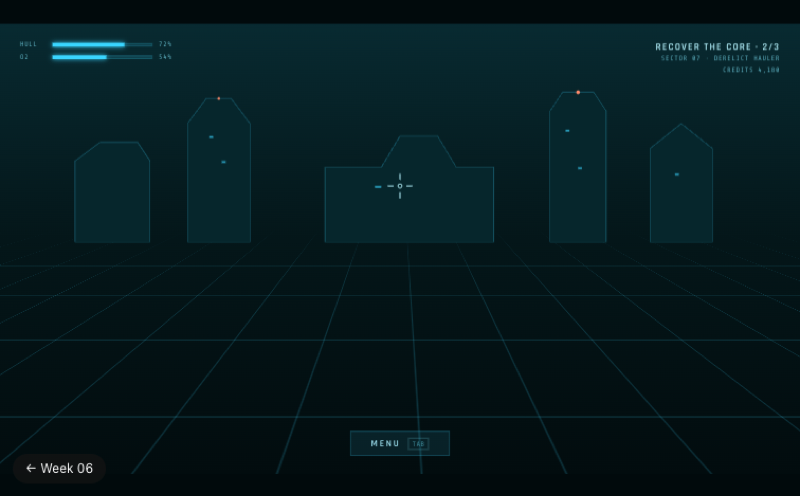
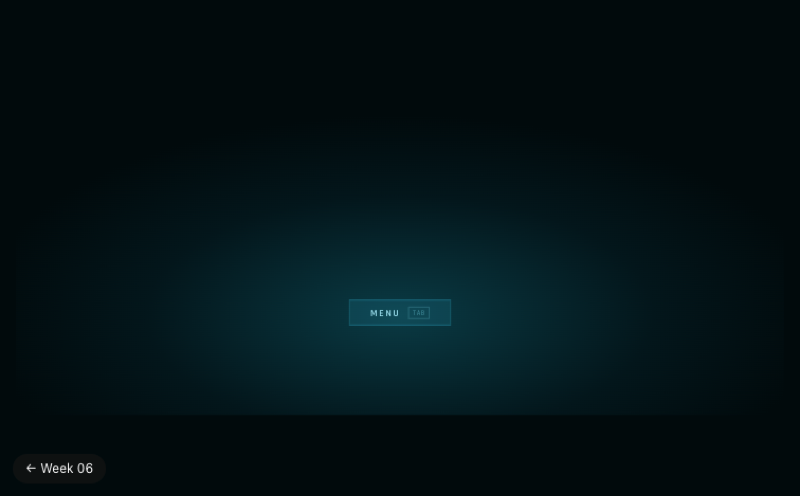
Week 06 Set 1 Vault: game scene removed, the menu alone, framed tight
Claude-Session: https://claude.ai/code/session_01NJxmaEWhDanH1Md96UKkh6

diff --git a/week-06/week-06-vault-menu.html b/week-06/week-06-vault-menu.html
@@ -7,44 +7,26 @@
   <link rel="icon" href="../shared/favicon.svg" type="image/svg+xml" />
   <link rel="stylesheet" href="week-06-vault.css?v=7" />
   <style>
-  /* In use: VAULT, a salvage game played on a derelict station. In play, the menu is shut: only a
-     MENU prompt sits at the foot of the screen. Opened (the prompt, or Tab), the play pauses and a
-     board of glass rises out of a line of light to fill the bottom half of the screen, leaning back
-     like the reference's sheet of glass. Its items are tiles, laid out in sections; they are stacked
-     onto the glass one after another, left to right. Point at a tile and it lifts and fills with
-     light; press it and it lights right through. Gear opens a submenu: a second, smaller board
-     stacked above the first. Esc, Resume or a click on the play takes it all off again, the tiles
-     lifting away right to left before the glass folds back into its line. */
+  /* In use: the field menu of VAULT, a sci-fi salvage game, on its own. Shut, it is a MENU prompt.
+     Opened (the prompt, or Tab), a board of glass rises out of a line of light, leaning back like the
+     reference's sheet of glass. Its items are wide, low boxes in sections, each built in steps like
+     stacked frames. Point at a box and it lifts and fills with light; press it and it lights right
+     through. Gear opens a submenu: a second, smaller board stacked above the first. Esc, Resume or a
+     click outside takes it all down again, right to left, and folds the glass back into its line. */
   *, *::before, *::after { box-sizing: border-box; }
   html, body { margin: 0; }
   body { background: var(--void); color: var(--ink); font: 500 14px/1.3 var(--font); -webkit-font-smoothing: antialiased; }
   button { font: inherit; }
-  :root { --w: 1280px; --h: 720px; --fit: 1; }
+  :root { --w: 1200px; --h: 520px; --fit: 1; }
   .hero { position: relative; height: 100vh; min-height: 420px; overflow: hidden; background: #010a0c; }
-  .stage { position: absolute; left: 50%; top: 50%; width: var(--w); height: var(--h); transform: translate(-50%, -50%) scale(var(--fit)); perspective: 1500px; perspective-origin: 50% 30%; overflow: hidden; }
+  .stage { position: absolute; left: 50%; top: 50%; width: var(--w); height: var(--h); transform: translate(-50%, -50%) scale(var(--fit)); perspective: 1500px; perspective-origin: 50% 40%; overflow: hidden; }
   .stage > * { position: absolute; }
 
-  /* ---------- the play ---------- */
-  .play { inset: 0; overflow: hidden; background: linear-gradient(#082a31, #041619 48%, #020c0e); transition: filter var(--open-time) var(--ease-out); }
-  .play > * { position: absolute; }
-  .floor { left: -400px; right: -400px; top: 330px; height: 700px; transform: perspective(520px) rotateX(72deg); transform-origin: 50% 0;
-    background: repeating-linear-gradient(90deg, rgba(57, 213, 255, .18) 0 1px, transparent 1px 70px), repeating-linear-gradient(0deg, rgba(57, 213, 255, .18) 0 1px, transparent 1px 70px);
-    -webkit-mask: linear-gradient(transparent, #000 30%, #000); mask: linear-gradient(transparent, #000 30%, #000); }
-  .wreck { left: 0; top: 70px; width: 1280px; height: 280px; }
-  .reticle { left: 616px; top: 236px; width: 48px; height: 48px; }
-  .hud { font: 400 11px/1 var(--mono); letter-spacing: .1em; color: var(--ink-2); }
-  .hud.tl { left: 32px; top: 28px; display: grid; gap: 9px; }
-  .hud.tl div { display: grid; grid-template-columns: 42px 160px 34px; align-items: center; gap: 10px; }
-  .hud .bar { height: 6px; background: rgba(57, 213, 255, .15); box-shadow: inset 0 0 0 1px rgba(57, 213, 255, .3); }
-  .hud .bar i { display: block; height: 100%; width: var(--v); background: var(--cyan); box-shadow: 0 0 8px var(--cyan); }
-  .hud.tr { right: 32px; top: 28px; text-align: right; line-height: 1.7; }
-  .hud.tr b { display: block; font: 600 16px/1.2 var(--font); letter-spacing: .12em; color: var(--cyan-hi); }
-  .paused { left: 0; right: 0; top: 30px; text-align: center; font: 600 13px/1 var(--mono); letter-spacing: .5em; color: var(--cyan-hi); opacity: 0; transition: opacity 200ms; }
-  .stage.is-menu .play { filter: brightness(.5) saturate(.7); }
-  .stage.is-menu .paused { opacity: 1; transition: opacity 300ms var(--open-time); }
+  /* ---------- the room: nothing but a dark floor of light, so the menu is all there is ---------- */
+  .play { inset: 0; background: radial-gradient(55% 60% at 50% 70%, #0a3a44, #03161b 60%, #010a0c); }
 
-  /* the prompt: all of the menu there is while you play */
-  .prompt { left: 560px; top: 652px; width: 160px; height: 40px; display: flex; align-items: center; justify-content: center; gap: 12px; padding: 0; border: 0; cursor: pointer;
+  /* the prompt: all of the menu there is while it is shut */
+  .prompt { left: 520px; top: 340px; width: 160px; height: 40px; display: flex; align-items: center; justify-content: center; gap: 12px; padding: 0; border: 0; cursor: pointer;
     background: rgba(57, 213, 255, .1); box-shadow: inset 0 0 0 1px rgba(57, 213, 255, .45); color: var(--ink); font: 600 15px/1 var(--font); letter-spacing: .2em;
     transition: background-color var(--hover-time), box-shadow var(--hover-time), color var(--hover-time), opacity 160ms; }
   .prompt kbd { padding: 3px 6px; border: 1px solid rgba(95, 179, 196, .5); font: 400 11px/1 var(--mono); letter-spacing: .06em; color: var(--ink-3); }
@@ -53,7 +35,7 @@
   .stage.is-menu .prompt { opacity: 0; pointer-events: none; }
 
   /* ---------- the board: the bottom half of the screen ---------- */
-  .board { left: 70px; top: 452px; width: 1140px; height: 238px; transform-style: preserve-3d; transform: rotateX(var(--board-tilt)); transform-origin: 50% 100%; visibility: hidden;
+  .board { left: 30px; top: 250px; width: 1140px; height: 238px; transform-style: preserve-3d; transform: rotateX(var(--board-tilt)); transform-origin: 50% 100%; visibility: hidden;
     transition: visibility 0s calc(var(--close-time) + 160ms); }
   .stage.is-menu .board { visibility: visible; transition: visibility 0s; }
   /* the line of light along its foot, then the glass rising out of it */
@@ -144,21 +126,7 @@
 <body>
   <section class="hero">
     <div class="stage">
-      <div class="play" aria-hidden="true">
-        <div class="floor"></div>
-        <svg class="wreck" viewBox="0 0 1280 280">
-          <g fill="#06262c" stroke="rgba(57,213,255,.35)" stroke-width="1">
-            <path d="M120 280V150l40-30h60l20 30v130z"/><path d="M300 280V90l30-40h40l30 40v190z"/><path d="M520 280V160h90l30-50h60l30 50h60v120z"/>
-            <path d="M880 280V70l20-30h50l20 30v210z"/><path d="M1040 280V130l50-40 50 40v150z"/>
-          </g>
-          <g fill="#39d5ff" opacity=".7"><rect x="335" y="110" width="6" height="3"/><rect x="355" y="150" width="6" height="3"/><rect x="905" y="100" width="6" height="3"/><rect x="925" y="160" width="6" height="3"/><rect x="600" y="190" width="10" height="3"/><rect x="1080" y="170" width="6" height="3"/></g>
-          <g fill="#ff8a6b"><circle cx="925" cy="40" r="3"/><circle cx="350" cy="50" r="2"/></g>
-        </svg>
-        <svg class="reticle" viewBox="0 0 48 48"><g fill="none" stroke="#b6f4ff" stroke-width="1.5"><path d="M24 4v10M24 34v10M4 24h10M34 24h10"/><circle cx="24" cy="24" r="3"/></g></svg>
-        <div class="hud tl"><div>HULL<span class="bar" style="--v:72%"><i></i></span>72%</div><div>O2<span class="bar" style="--v:54%"><i></i></span>54%</div></div>
-        <div class="hud tr"><b>RECOVER THE CORE · 2/3</b>SECTOR 07 · DERELICT HAULER<br />CREDITS 4,180</div>
-      </div>
-      <div class="paused" aria-hidden="true">PAUSED</div>
+      <div class="play" aria-hidden="true"></div>
 
       <button class="prompt" type="button" aria-haspopup="menu" aria-expanded="false" aria-controls="board">MENU <kbd>TAB</kbd></button>
 
@@ -213,7 +181,7 @@
 
   <section class="spec" aria-labelledby="spec-title">
     <h2 id="spec-title">Spec</h2>
-    <p>Read from the values this page runs on. The menu is a board of glass that fills the bottom half of the play screen; its items are tiles, laid out in sections and stacked onto the glass one at a time.</p>
+    <p>Read from the values this page runs on. The menu is a board of glass leaning back; its items are wide, low boxes in sections, each built in steps like stacked frames.</p>
     <div class="spec-grid"></div>
   </section>
 
@@ -226,8 +194,8 @@
       const ms = n => parseFloat(getComputedStyle(root).getPropertyValue(n));
       const log = board.querySelector('.log'), dTitle = document.getElementById('d-title'), dDesc = document.getElementById('d-desc');
 
-      // fit the 1280 × 720 frame to the window
-      const fit = () => root.style.setProperty('--fit', Math.min(innerWidth / 1280, innerHeight / 720));
+      // fit the 1200 × 520 frame to the window
+      const fit = () => root.style.setProperty('--fit', Math.min(innerWidth / 1200, innerHeight / 520) * .96);
       addEventListener('resize', fit); fit();
 
       // each box gets the layers it is built from: two corner nodes, a footprint, a dotted layer, an edge flash
@@ -255,7 +223,7 @@
         t1 = setTimeout(() => { stage.classList.remove('is-menu', 'is-leaving', 'is-settled'); prompt.focus({ preventScroll: true }); }, (slots.length - 1) * ms('--leave-step') + 260);
       };
       prompt.addEventListener('click', open);
-      stage.addEventListener('pointerdown', e => { if (isOpen() && e.target.closest('.play, .paused')) close(); });
+      stage.addEventListener('pointerdown', e => { if (isOpen() && e.target.closest('.play')) close(); });
 
       // the panel follows what you point at
       const show = t => { dTitle.textContent = t.querySelector('.t-label').textContent; dDesc.textContent = t.dataset.desc || ''; };

diff --git a/week-06/week-06.html b/week-06/week-06.html
@@ -614,8 +614,8 @@
       <div class="set-grid">
         <div class="set-box" id="set-1">
           <button type="button" class="set-card" aria-haspopup="dialog" aria-controls="dlg-1">
-            <span class="set-thumbs" aria-hidden="true"><img src="images/process/vault-menu-1.png?v=10" alt="" loading="lazy" /><img src="images/process/vault-system-1.png?v=10" alt="" loading="lazy" /></span>
-            <span class="set-head"><span class="set-num">Set 1</span><span class="set-name">Vault</span><span class="set-line">Futuristic. The field menu of a sci-fi salvage game, after a holographic file database: a board of glass rises out of a line of light to fill the bottom half of the play screen, and each of its items, plain boxes in sections, is built in steps like stacked frames: corner nodes, a footprint drawn out of them, a dotted layer, then the box on top.</span></span>
+            <span class="set-thumbs" aria-hidden="true"><img src="images/process/vault-menu-1.png?v=11" alt="" loading="lazy" /><img src="images/process/vault-system-1.png?v=11" alt="" loading="lazy" /></span>
+            <span class="set-head"><span class="set-num">Set 1</span><span class="set-name">Vault</span><span class="set-line">Futuristic. The field menu of a sci-fi salvage game, after a holographic file database: a board of glass rises out of a line of light, and each of its items, plain boxes in sections, is built in steps like stacked frames: corner nodes, a footprint drawn out of them, a dotted layer, then the box on top.</span></span>
             <span class="set-open" aria-hidden="true"></span>
           </button>
           <dialog class="set-dialog" id="dlg-1" aria-labelledby="dlg-1-title">
@@ -635,11 +635,11 @@
                   </figcaption>
                 </figure>
                 <figure class="proto">
-                  <iframe src="week-06-vault-menu.html?v=7" title="Vault in use: a holographic file database" loading="lazy"></iframe>
+                  <iframe src="week-06-vault-menu.html?v=8" title="Vault in use: a holographic file database" loading="lazy"></iframe>
                   <figcaption>
                     <b>In use</b>
-                    <span>In play the menu is shut: a MENU prompt at the foot of the screen. Click it or press Tab: the play pauses, a line of light runs along the bottom and the glass rises out of it, then the boxes are built left to right, each in steps: two corner nodes land, a footprint is drawn out of them, a dotted layer rises, the box rises on top with an edge flash, and its writing comes up last. Point at a tile and it lifts; press it and it lights through. Gear opens a smaller board stacked above. Arrows move between tiles; Esc, Resume or a click on the play takes the boxes down right to left, the same steps backwards, and folds the glass away. The spec follows.</span>
-                    <button type="button" class="viewer-open" data-src="week-06-vault-menu.html?v=7">View larger</button>
+                    <span>Shut, the menu is a MENU prompt. Click it or press Tab: a line of light runs out and the glass rises from it, then the boxes are built left to right, each in steps: two corner nodes land, a footprint is drawn out of them, a dotted layer rises, the box rises on top with an edge flash, and its writing comes up last. Point at a tile and it lifts; press it and it lights through. Gear opens a smaller board stacked above. Arrows move between tiles; Esc, Resume or a click outside takes the boxes down right to left, the same steps backwards, and folds the glass away. The spec follows.</span>
+                    <button type="button" class="viewer-open" data-src="week-06-vault-menu.html?v=8">View larger</button>
                   </figcaption>
                 </figure>
               </div>
@@ -650,12 +650,12 @@
                 <figure><img src="images/process/seance-menu-1.png" alt="S&eacute;ance, a horror game&rsquo;s menu on a spirit board" loading="lazy" /><figcaption>S&eacute;ance: a horror game on a spirit board.</figcaption></figure>
                 <figure><img src="images/process/harvest-menu-1.png" alt="Harvest, a pixel farming game&rsquo;s menu" loading="lazy" /><figcaption>Harvest: a pixel farm, moving in steps.</figcaption></figure>
                 <figure><img src="images/process/ledger-menu-1.png" alt="Ledger, a finance app&rsquo;s Move money menu" loading="lazy" /><figcaption>Ledger: a finance app, smooth springs.</figcaption></figure>
-                <figure><img src="images/process/vault-menu-0.png?v=10" alt="Vault, the menu shut" loading="lazy" /><figcaption>Vault, shut: the play, with only the MENU prompt.</figcaption></figure>
-                <figure><img src="images/process/vault-menu-1.png?v=10" alt="Vault, the menu and its submenu open" loading="lazy" /><figcaption>Vault, open: the board over the bottom half, Gear&rsquo;s rack stacked above it.</figcaption></figure>
+                <figure><img src="images/process/vault-menu-0.png?v=11" alt="Vault, the menu shut" loading="lazy" /><figcaption>Vault, shut: only the MENU prompt.</figcaption></figure>
+                <figure><img src="images/process/vault-menu-1.png?v=11" alt="Vault, the menu and its submenu open" loading="lazy" /><figcaption>Vault, open: the board, Gear&rsquo;s rack stacked above it.</figcaption></figure>
               </div>
               <p class="process-label">Menu system</p>
               <div class="process-grid">
-                <figure><img src="images/process/vault-system-1.png?v=10" alt="Vault menu system" loading="lazy" /><figcaption>Every configuration in three states.</figcaption></figure>
+                <figure><img src="images/process/vault-system-1.png?v=11" alt="Vault menu system" loading="lazy" /><figcaption>Every configuration in three states.</figcaption></figure>
               </div>
             </div>
           </dialog>

diff --git a/week-06/week-06-vault-spec.js b/week-06/week-06-vault-spec.js
@@ -37,7 +37,6 @@
 
   const cards = [
     ['Board', [
-      ['Fills', 'the bottom half of the play screen'],
       ['Leans back', tok('--board-tilt')],
       ['Glass', 'dotted every 20px, 62% to 80%'],
       ['Edge', `1px, ${hex(cs('glass').borderTopColor)}`],
@@ -84,7 +83,6 @@
       ['Boxes built', `left to right, ${tok('--stack-step')} apart`],
       ['Taken down', `right to left, ${tok('--leave-step')} apart`],
       ['Glass folds', `${tok('--close-time')}, back into its line`],
-      ['Play', 'dims to 50% and pauses'],
       ['Hover', `${tok('--hover-time')}, ${tok('--ease-out')}`],
     ]],
     ['Motion · one box built', [

diff --git a/week-06/week-06-vault-system.html b/week-06/week-06-vault-system.html
@@ -37,7 +37,7 @@
 <body>
   <header class="top">
     <h1>Vault · Menu system</h1>
-    <p>One tile, every configuration, every state. Laid flat to read; in use the tiles sit on a board of glass that fills the bottom half of the play screen.</p>
+    <p>One tile, every configuration, every state. Laid flat to read; in use the boxes sit on a board of glass that leans back.</p>
   </header>
 
   <div class="sheet">
